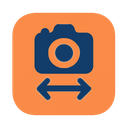
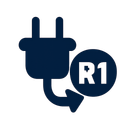
Add files via upload

diff --git a/apps/app/index.html b/apps/app/index.html
@@ -4,7 +4,8 @@
     <meta charset="UTF-8">
     <meta name="viewport" content="width=device-width, height=device-height, initial-scale=1.0, maximum-scale=1.0, user-scalable=no, viewport-fit=cover">
     <title>Magic Kamera</title>
-    <link rel="stylesheet" href="./src/style.css">
+  <script type="module" crossorigin src="./assets/main-g83Y8z_m.js"></script>
+  <link rel="stylesheet" crossorigin href="./assets/main-OS9h3K4Z.css">
 </head>
 <body>
     <div id="app">
@@ -1802,6 +1803,5 @@ All of the presets are optimized to avoid "camera ran dry" or "content filter" i
 
     <script src="https://cdnjs.cloudflare.com/ajax/libs/qrcodejs/1.0.0/qrcode.min.js"></script>
     <script src="https://unpkg.com/jsqr@1.4.0/dist/jsQR.js"></script>
-    <script type="module" src="./src/main.js"></script>
 </body>
 </html>